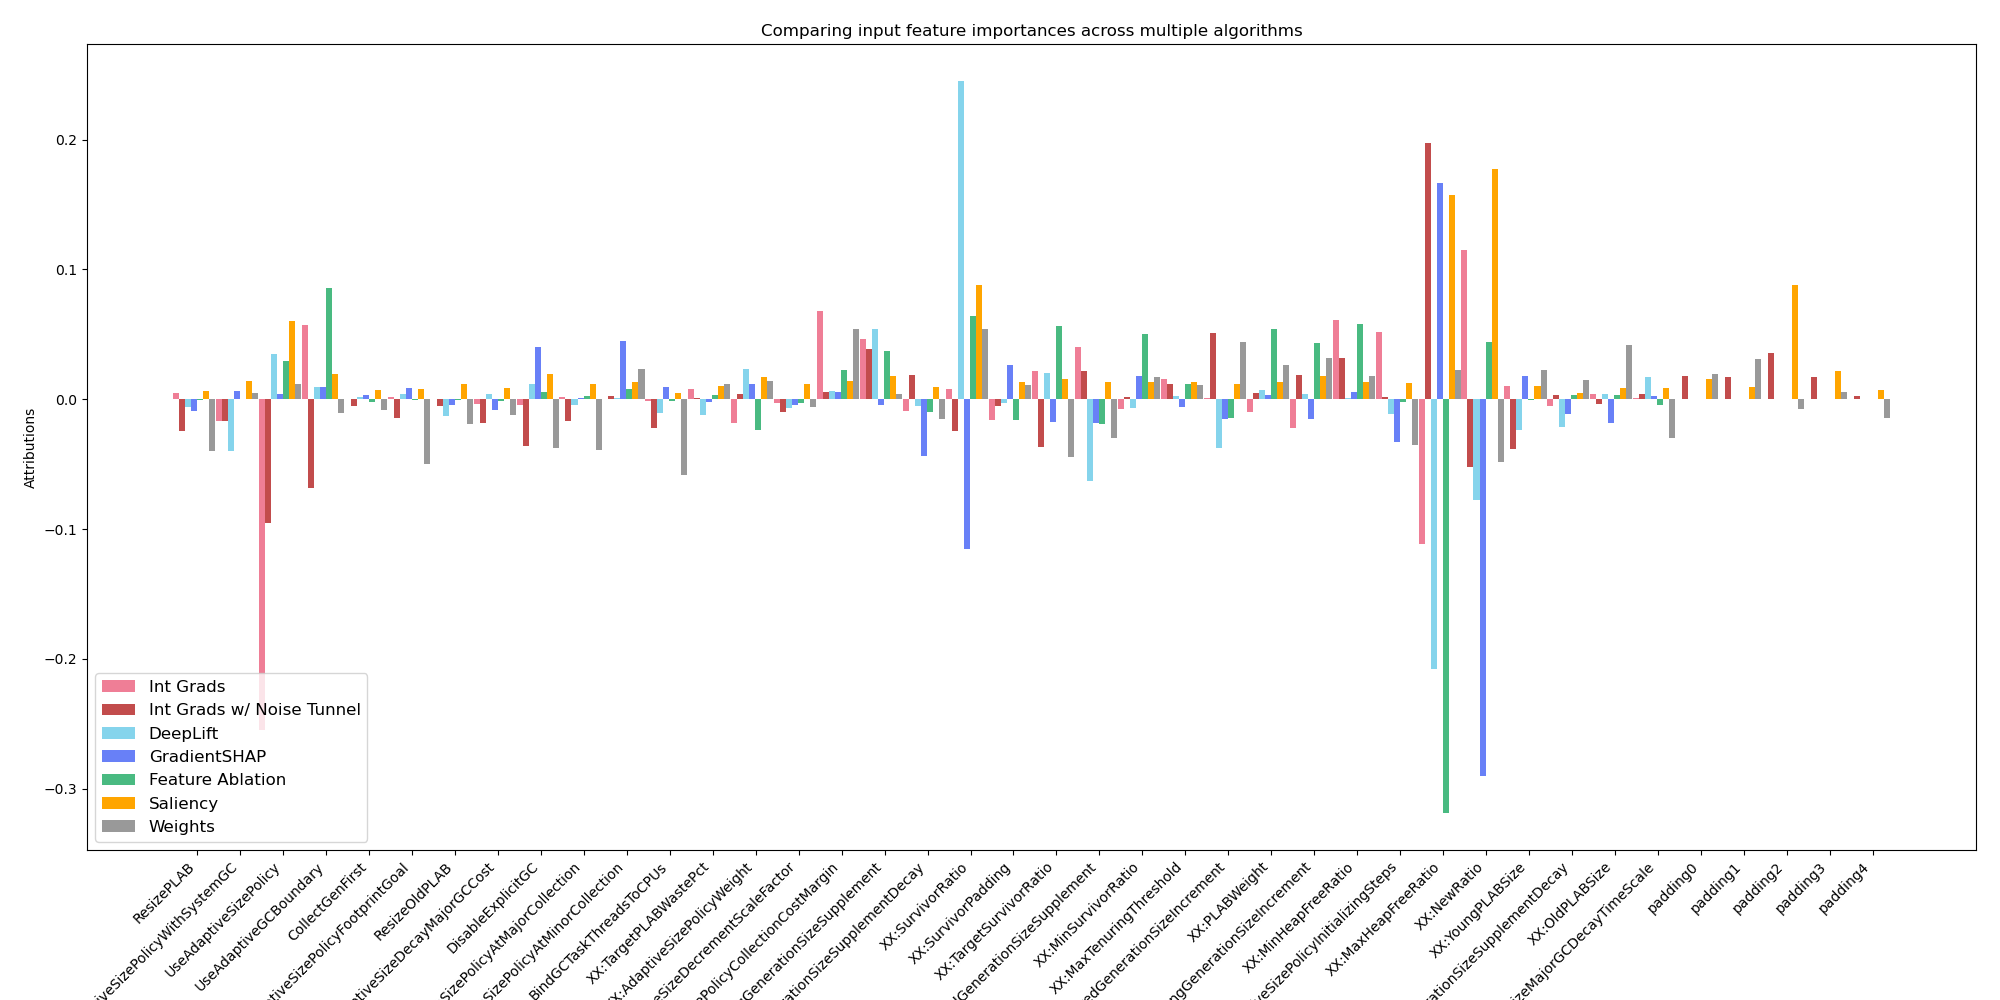
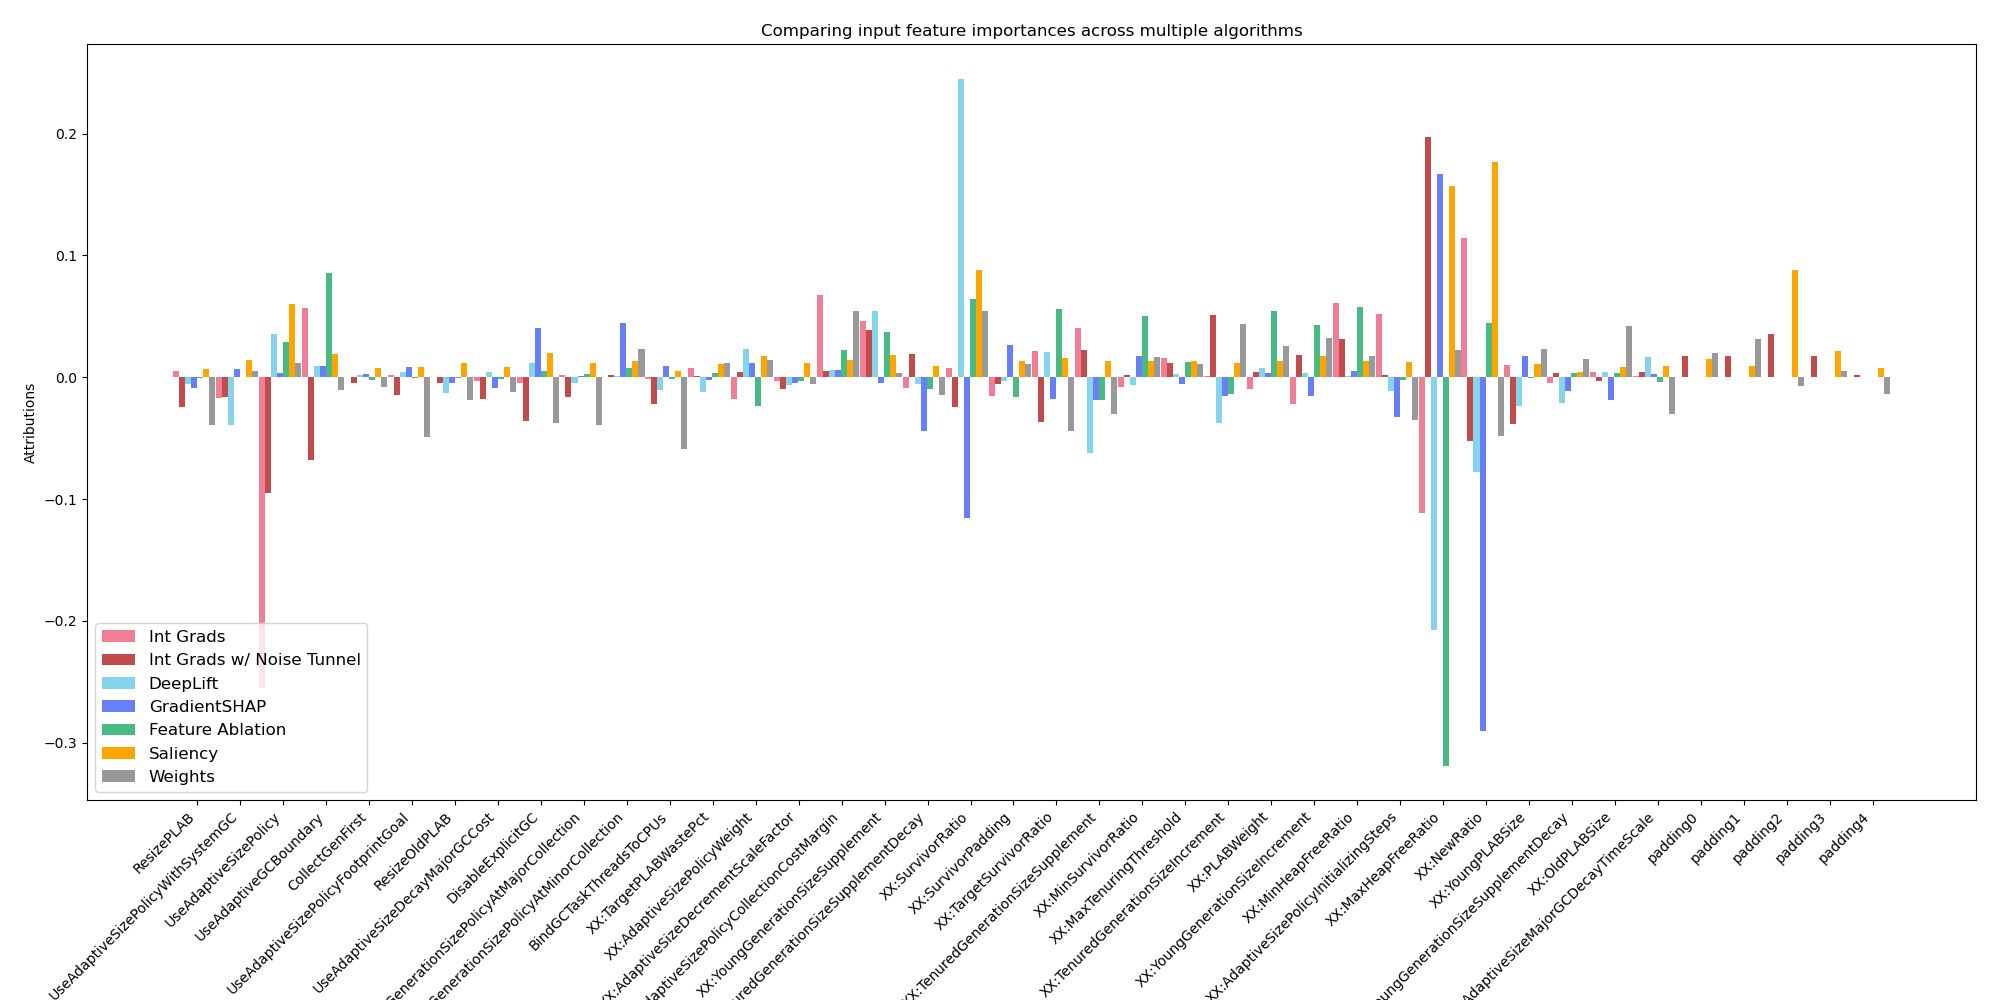
javagc uncut

Changed region(s): [[0.031, 0.62, 0.93, 1.0], [0.062, 0.31, 0.961, 0.465], [0.0, 0.403, 0.031, 0.465]]

diff --git a/src/feature_attribution.py b/src/feature_attribution.py
@@ -196,7 +196,7 @@ if __name__ == '__main__':
         ax.set_xticks(x_axis_data + 0.5)
         ax.set_xticklabels(x_axis_data_labels)
         plt.xticks(rotation=45, ha="right")
-        plt.subplots_adjust(bottom=0.15)  # Adjust the bottom margin
+        plt.subplots_adjust(bottom=0.2)  # Adjust the bottom margin
 
         plt.legend(legends, loc=3)
         # plt.show()
